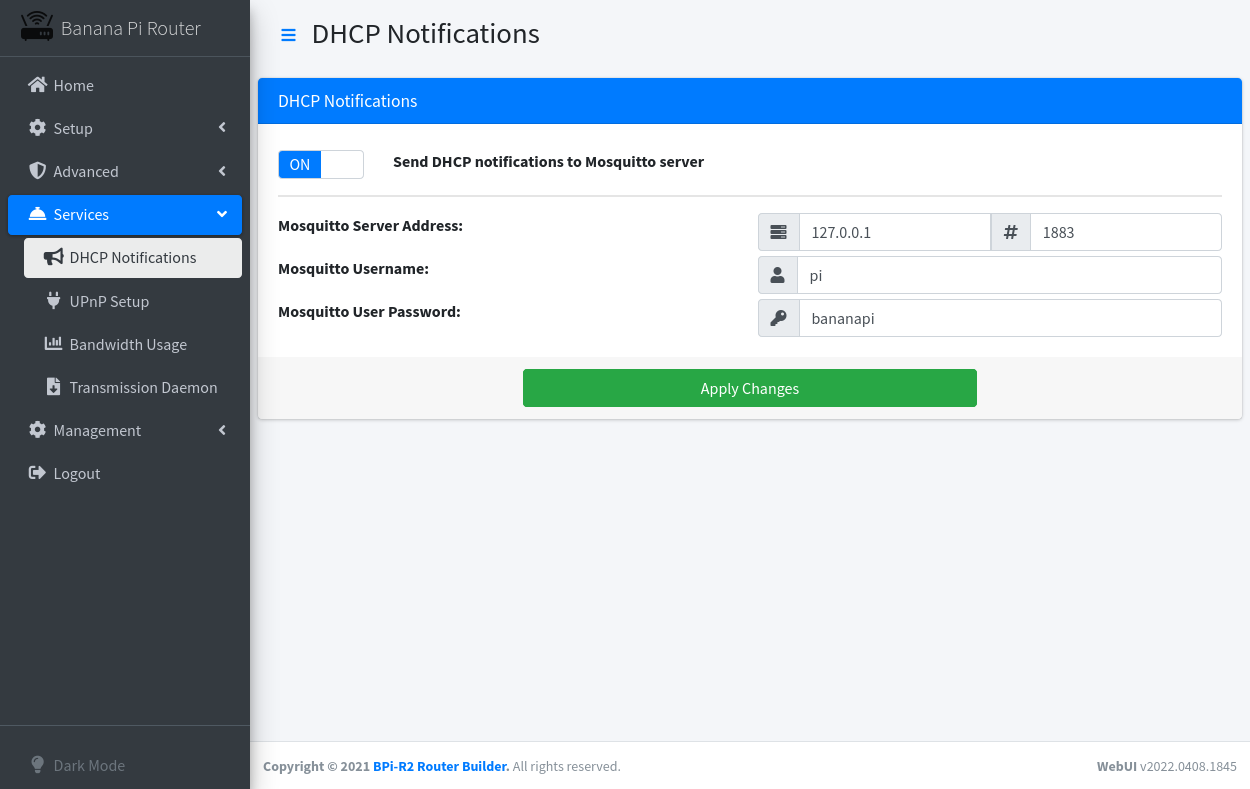
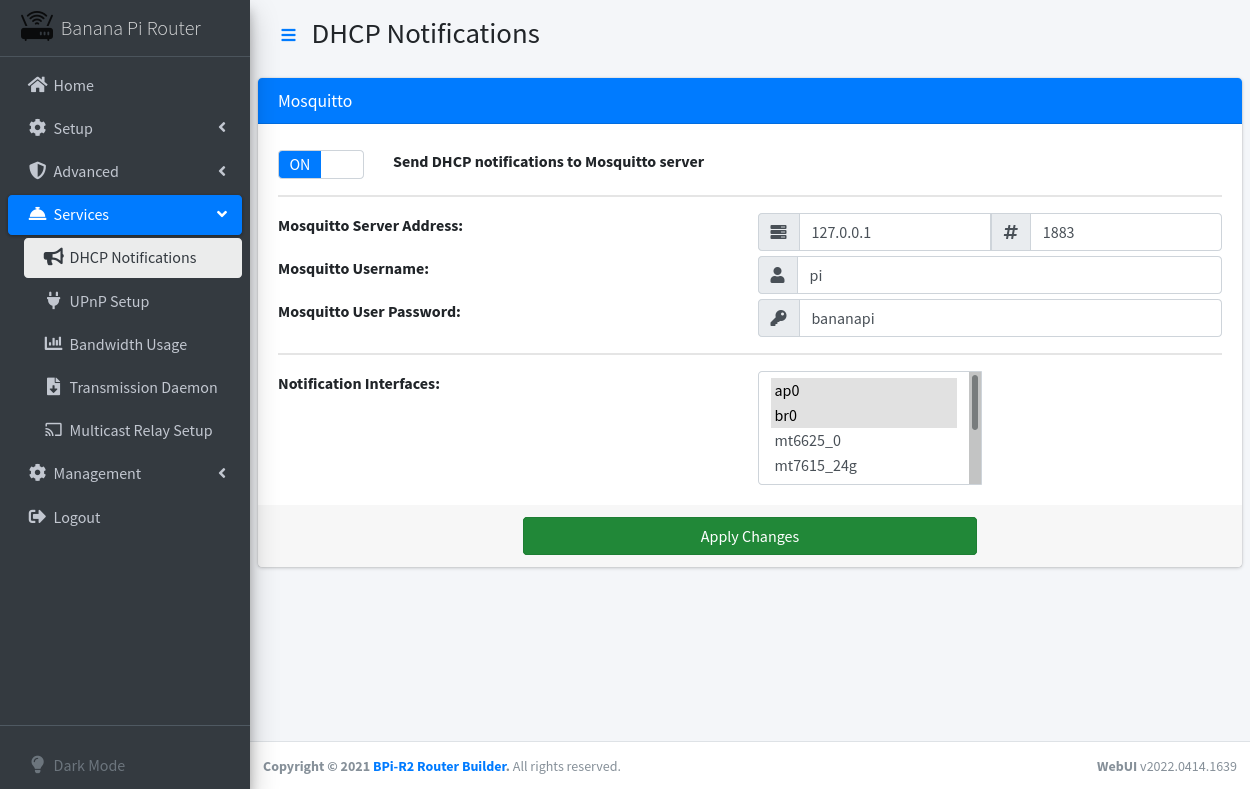
Added interfaces to WebUI Services / DHCP Notifications

diff --git a/router/js/site-services.js b/router/js/site-services.js
@@ -105,6 +105,7 @@ function Notify_Apply()
 		'ip_port':    $("#ip_port").val(),
 		'username':   $("#username").val(),
 		'password':   $("#password").val(),
+		'send_on':    $("#send_on").val().join(","),
 	};
 	//alert(JSON.stringify(postdata, null, 5)); return;
 

diff --git a/router/includes/services-notify.php b/router/includes/services-notify.php
@@ -1,5 +1,18 @@
 <?php
+require_once("subs/manage.php");
+require_once("subs/setup.php");
+
 $options = parse_options();
+$ifaces = get_network_adapters();
+#echo '<pre>'; print_r($ifaces); exit();
+$ext_ifaces = explode("\n", @trim(@shell_exec("grep masquerade /etc/network/interfaces.d/* | cut -d: -f 1 | cut -d\/ -f 5")));
+#echo '<pre>'; print_r($ext_ifaces); exit();
+$exclude_arr = array("docker0", "lo", "sit0", "eth0", "eth1", "aux");
+#echo $exclude_regex; exit;
+$valid_listen = array_diff( array_keys($ifaces), $exclude_arr, $ext_ifaces );
+#echo '<pre>'; print_r($valid_listen); exit();
+$listen = explode(" ", str_replace('"', '', isset($options['mosquitto_ifaces']) ? $options['mosquitto_ifaces'] : ''));
+#echo '<pre>'; print_r($listen); exit();
 
 #################################################################################################
 # If action specified and invalid SID passed, force a reload of the page.  Otherwise:
@@ -85,6 +98,22 @@ echo '
 						</div>
 						<input id="password" type="text" class="form-control" value="', $options['mosquitto_pass'], '">
 					</div>
+				</div>
+			</div>
+			<hr style="border-width: 2px" />
+			<div class="row" style="margin-top: 5px">
+				<div class="col-sm-6">
+					<label for="listening_on">Notification Interfaces:</label>
+				</div>
+				<div class="col-sm-3">
+					<select class="form-control" id="send_on" multiple="multiple">';
+foreach ($valid_listen as $tface)
+{
+	echo '
+						<option value="', $tface, '"', in_array($tface, $listen) ? ' selected="selected"' : '', '>' . $tface . '</option>';
+}
+echo '
+					</select>
 				</div>
 			</div>
 		</div>
